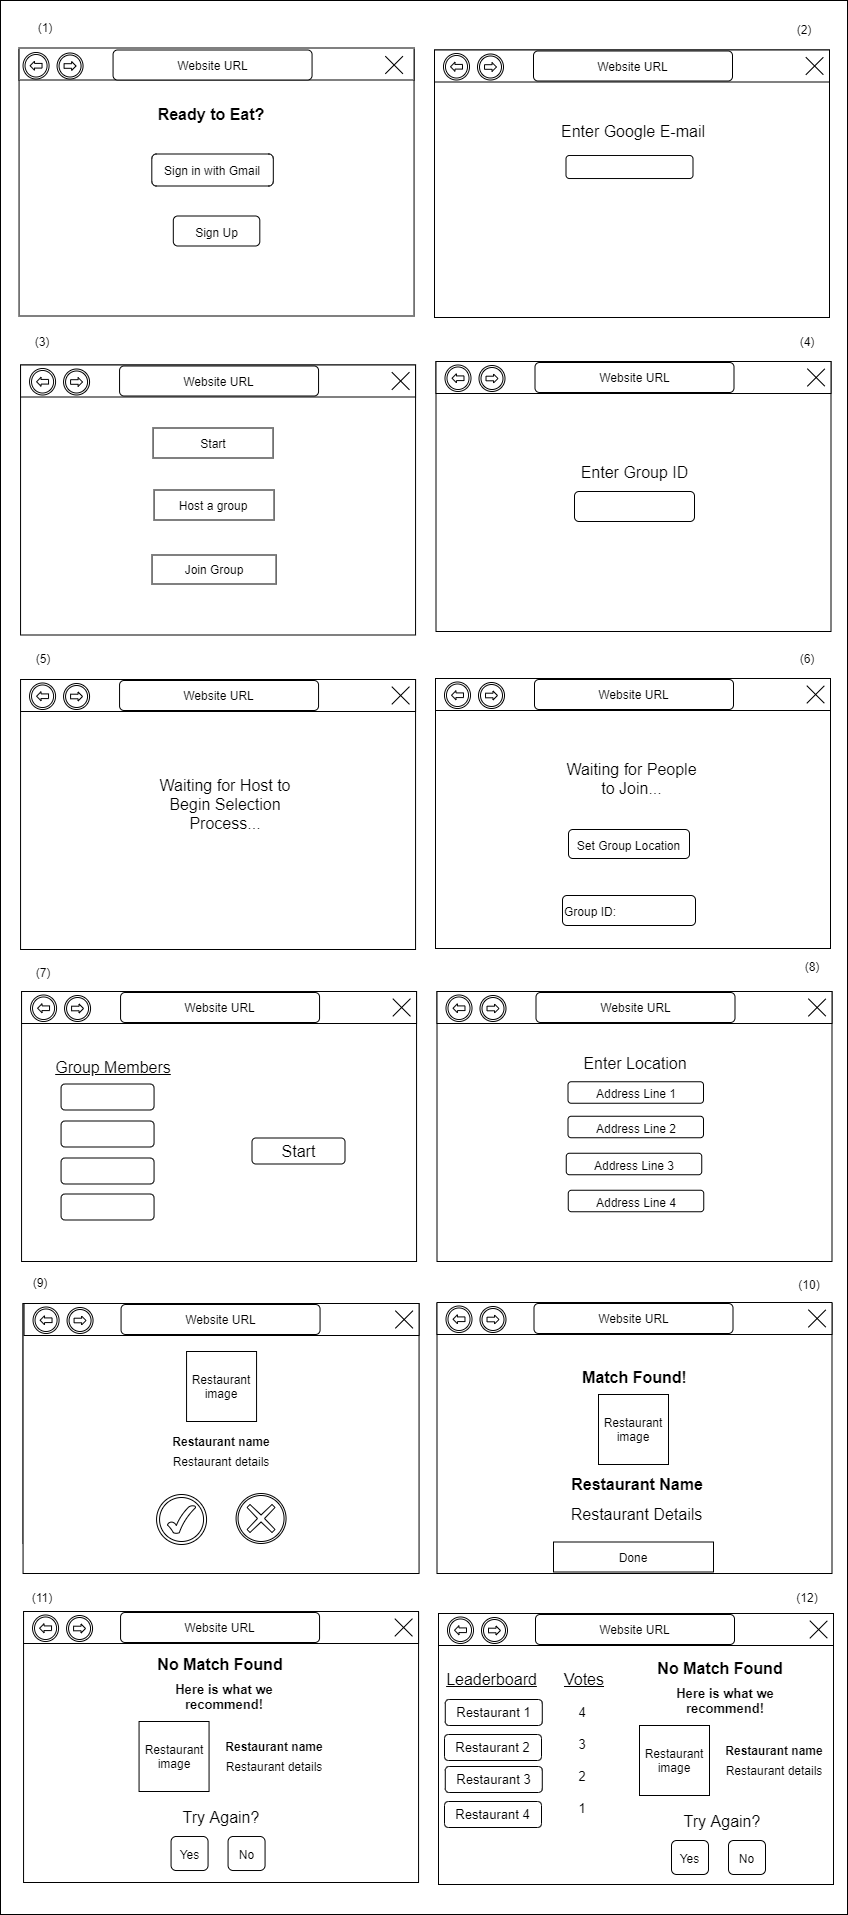
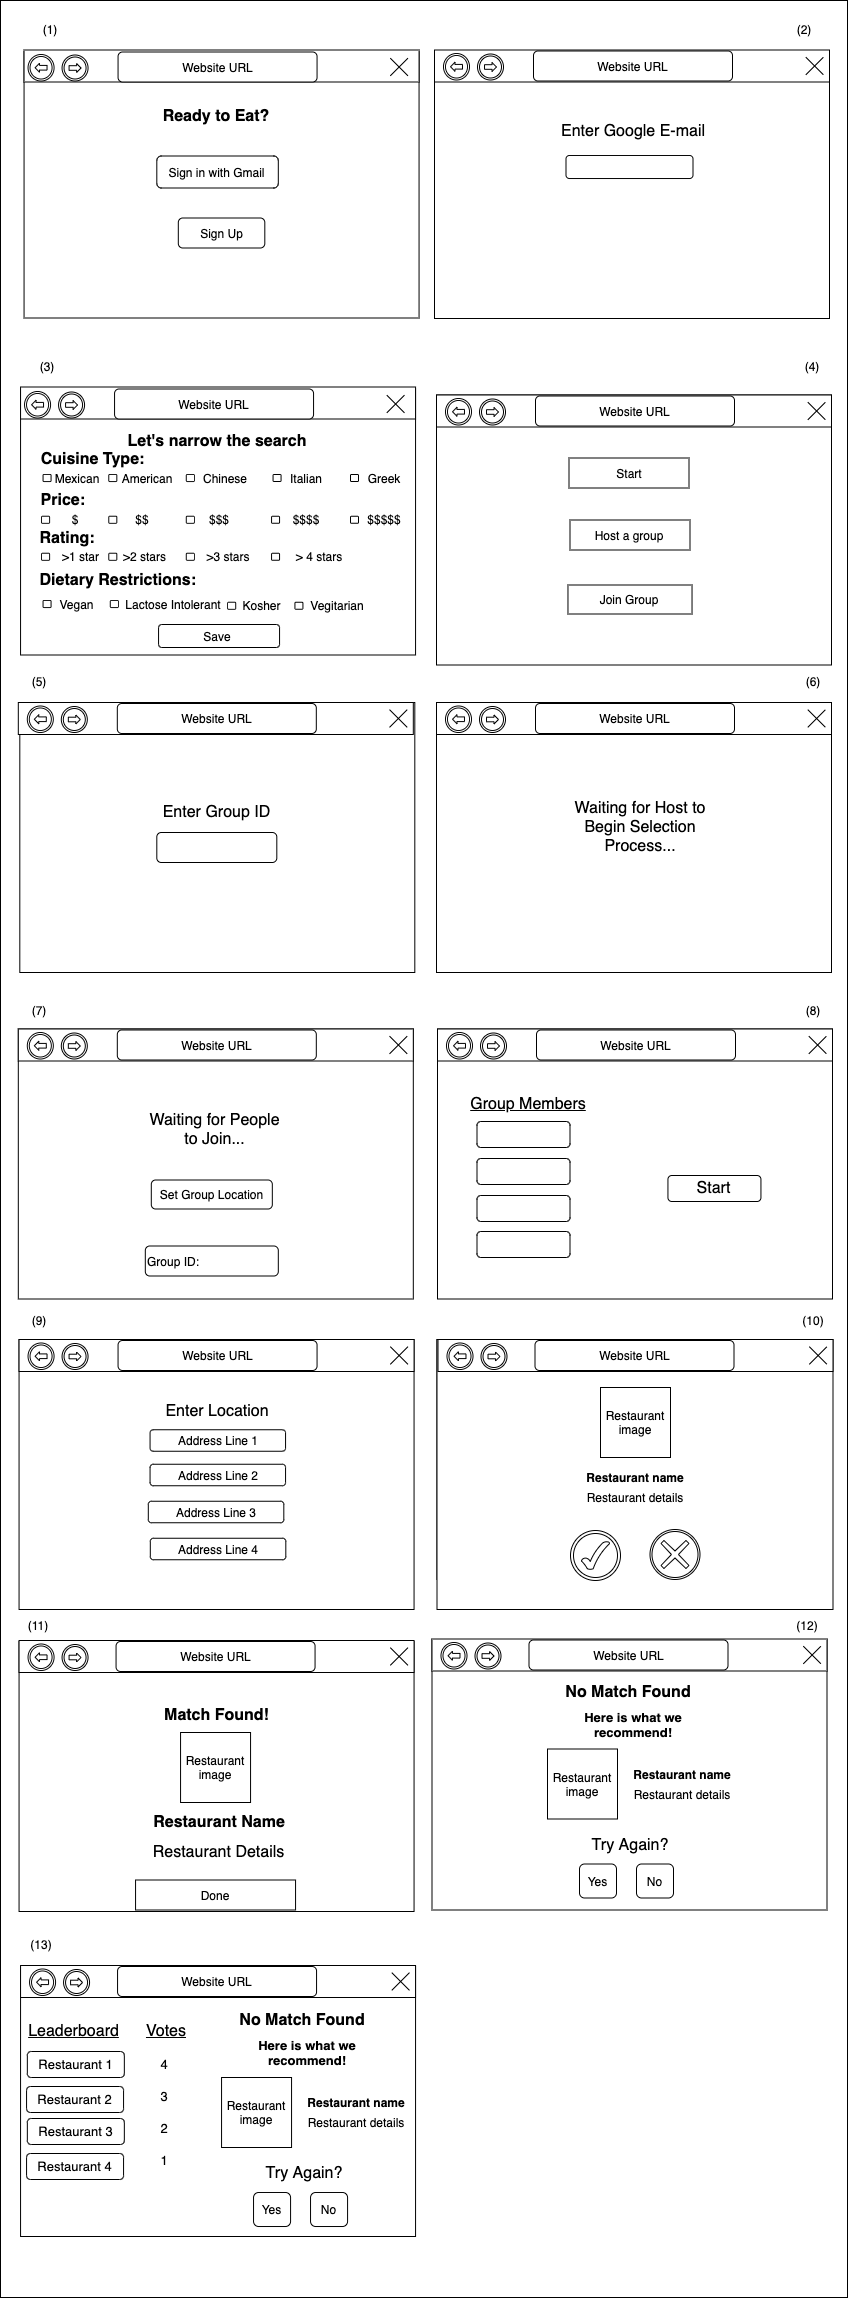
updated wireframe and added some user stories

diff --git a/docs/iteration3.md b/docs/iteration3.md
@@ -1,10 +1,11 @@
 # Teamwork
 
-Leader: 
+Leader:
 
-When2Meet: 
+When2Meet:
 
 # OO Design
+
 ![UML Diagram for iteration 2](assets/uml-diagram-updated-iteration2.png)
 
 # Wireframe & Use-case
@@ -15,28 +16,30 @@ When2Meet:
 
 1. The user opens the application.
 2. The user will be presented with a sign-in/up page, view (1).
-    - If they already made an account with us, the user will click on the "Sign in with Gmail" button.
-      - The user will enter their e-mail and Google will handle the rest of the sign-in process, view (2).
-    - Otherwise, they will click on the “Sign up” button.
-      - Then, the user will enter their email such that an account is created, view (2).
-3. The user will be presented with the "Start" page, view (3).
-    - If they want to choose by themselves, the user will click on “Start”.
-    - If they want to join a group, the user will click on the “Join a group” button.
-      - The user will enter a group ID which represents a specific group to join, view (4).
-      - The user is presented with a “Waiting…” screen until the host begins the selection process, view (5).
-    - If they want to host a group, the user will click on the “Host a group” button.
-      - The user will set the group’s location by clicking on the “Set Group Location” button.
-      - The user will wait for people to join and click the “Start” button once everyone has joined, view (7).
-4. The user will be presented with a place to enter their location, view (8).
-5. The user/ will be presented with a "Restaurant option" page, view (9).
-6. The user will click on "Yes" if they find the option appealing, or on "No" if they find it unappealing.
-    - If the user clicks on "Yes", a new "Restaurant option" page will be presented.
-7. If the user swipes right, the "Match found" page, view (10), will be presented.
-      - The user will click on the "Done" button and be returned to the "Start" page.
-8. If the user/group is unable to find a match after swiping through 10 restaurants, then a “No Match Found” screen is displayed.
-    - If not in a group, then the user is presented with a recommendation, view (11).
-    - If in a group, then the group is presented with a recommendation and a leaderboard of restaurants to show how people voted for each one, view (12).
-9. The user will click “Yes” or "No" if they want to swipe through another collection of restaurants or end the swiping process.
+   - If they already made an account with us, the user will click on the "Sign in with Gmail" button.
+     - The user will enter their e-mail and Google will handle the rest of the sign-in process, view (2).
+   - Otherwise, they will click on the “Sign up” button.
+     - Then, the user will enter their email such that an account is created, view (2).
+3. The user will be presented with a page to insert their preferences, view (3)
+   - For each preference, the user can select all that apply to help filter their results
+4. The user will be presented with the "Start" page, view (4).
+   - If they want to choose by themselves, the user will click on “Start”.
+   - If they want to join a group, the user will click on the “Join a group” button.
+     - The user will enter a group ID which represents a specific group to join, view (5).
+     - The user is presented with a “Waiting…” screen until the host begins the selection process, view (6).
+   - If they want to host a group, the user will click on the “Host a group” button.
+     - The user will set the group’s location by clicking on the “Set Group Location” button.
+     - The user will wait for people to join and click the “Start” button once everyone has joined, view (8).
+5. The user will be presented with a place to enter their location, view (9).
+6. The user/ will be presented with a "Restaurant option" page, view (10).
+7. The user will click on "Yes" if they find the option appealing, or on "No" if they find it unappealing.
+   - If the user clicks on "Yes", a new "Restaurant option" page will be presented.
+8. If the user swipes right, the "Match found" page, view (11), will be presented.
+   - The user will click on the "Done" button and be returned to the "Start" page.
+9. If the user/group is unable to find a match after swiping through 10 restaurants, then a “No Match Found” screen is displayed.
+   - If not in a group, then the user is presented with a recommendation, view (12).
+   - If in a group, then the group is presented with a recommendation and a leaderboard of restaurants to show how people voted for each one, view (13).
+10. The user will click “Yes” or "No" if they want to swipe through another collection of restaurants or end the swiping process.
 
 # Iteration Backlog
 
